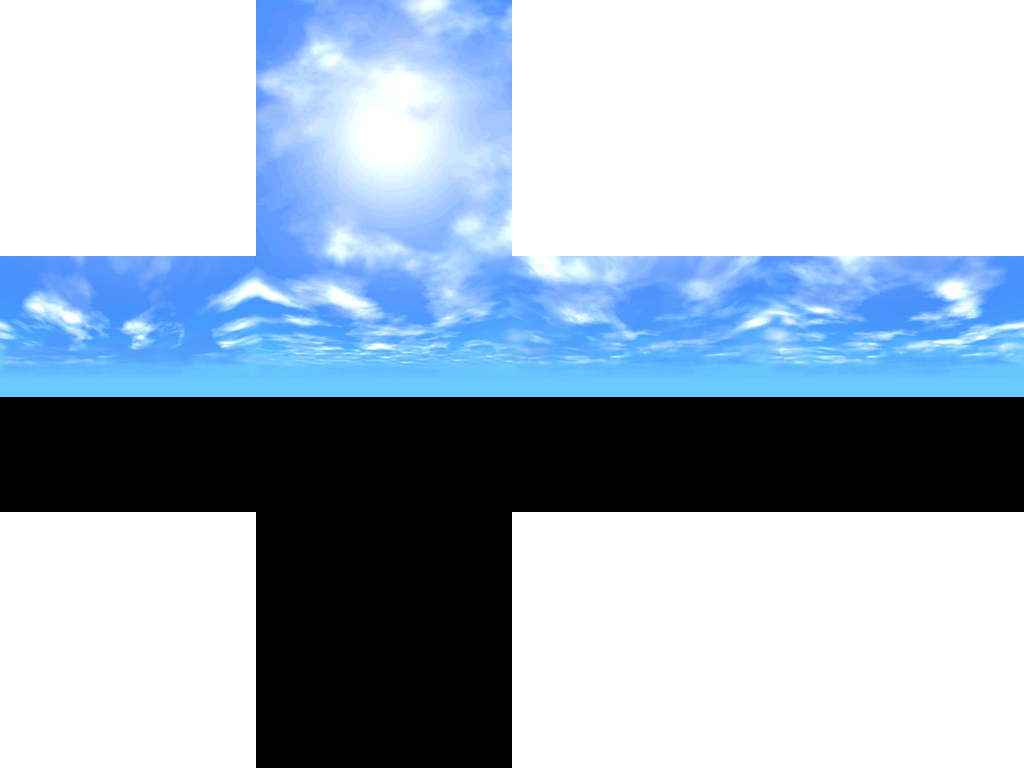
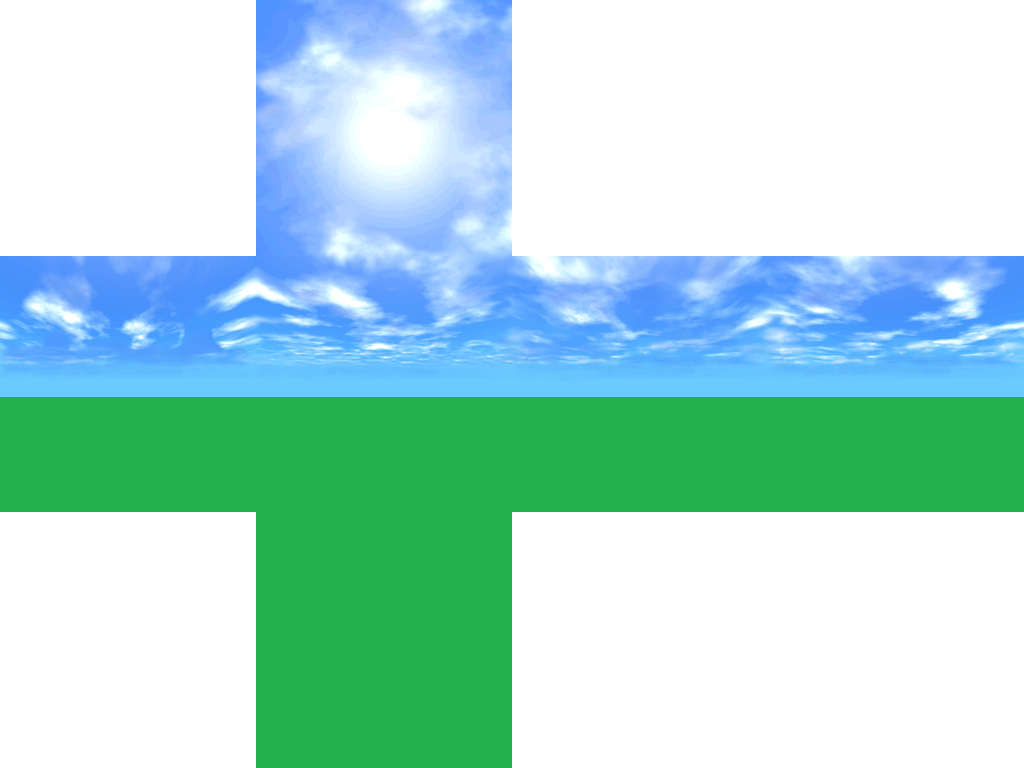
Environment & lighting update

Changed region(s): [[0.0, 0.5, 1.0, 1.0]]

diff --git a/main.cpp b/main.cpp
@@ -4,14 +4,6 @@
 #include <map>
 #include <cstdlib>
 
-#define GLM_FORCE_RADIANS
-#include <glm/glm.hpp>
-#include <glm/gtc/matrix_transform.hpp>
-#include <glm/gtc/constants.hpp>
-#include <glm/gtc/quaternion.hpp>
-#include <GL/glew.h>
-#include <GLFW/glfw3.h>
-
 #include <btBulletDynamicsCommon.h>
 #include "world.h"
 
@@ -25,10 +17,6 @@
 #include "skybox.h"
 #include "wavefront.h"
 
-#define WORLD_ROTATE	(2.f * PI / 180.f)
-
-#define ARRAY_SIZE(a)	(sizeof(a) / sizeof(a[0]))
-
 using namespace std;
 using namespace glm;
 
@@ -36,6 +24,8 @@ GLFWwindow *window;
 
 program_t programs[PROGRAM_COUNT];
 texture_t textures[TEXTURE_COUNT];
+
+environment_t environment;
 
 Camera camera;
 
@@ -232,7 +222,7 @@ static void renderSkybox()
 	uniformMap &uniforms = programs[PROGRAM_SKYBOX].uniforms;
 
 	// Material properties
-	glUniform1f(uniforms[UNIFORM_AMBIENT], 0.7f);
+	glUniform3fv(uniforms[UNIFORM_AMBIENT], 1, (GLfloat *)&environment.ambient);
 
 	// Render skybox
 	matrix.model = translate(mat4(), camera.position());
@@ -258,15 +248,11 @@ static void render()
 	glUseProgram(programs[PROGRAM_WAVEFRONT].id);
 	uniformMap &uniforms = programs[PROGRAM_WAVEFRONT].uniforms;
 
-#if 1
-	vec3 light(0.f, 0.f, 1.f);	// Light direction
+	vec3 light(0.f, 0.f, 1.f);		// Light direction
 	light = vec3(transpose(inverse(matrix.view)) * vec4(light, 0.f));
 	glUniform3fv(uniforms[UNIFORM_LIGHT], 1, (GLfloat *)&light);
-#else
-	vec3 light(0.f, 1.f, 0.f);	// Light directionr
-	light = vec3(transpose(inverse(matrix.view)) * vec4(light, 0.f));
-	glUniform3fv(uniforms[UNIFORM_LIGHT], 1, (GLfloat *)&light);
-#endif
+	vec3 intensity(0.5f, 0.3f, 0.2f);	// Light intensity
+	glUniform3fv(uniforms[UNIFORM_LIGHT_INTENSITY], 1, (GLfloat *)&intensity);
 	vec3 viewer = vec3(transpose(inverse(matrix.view)) * vec4(camera.position(), 0.f));
 	glUniform3fv(uniforms[UNIFORM_VIEWER], 1, (GLfloat *)&viewer);
 
@@ -465,7 +451,7 @@ static void keyCB(GLFWwindow */*window*/, int key, int /*scancode*/, int action,
 	if (action != GLFW_PRESS && action != GLFW_REPEAT)
 		return;
 
-	if (key == GLFW_KEY_D) {
+	if (key == GLFW_KEY_X) {
 		camera.print();
 		return;
 	}
@@ -587,7 +573,7 @@ int main(int /*argc*/, char */*argv*/[])
 		return -1;
 	}
 
-#if 0	
+#if 0	// GLFW supports cube_map, but GLEW does not?
 	clog << (glIsEnabled(GL_TEXTURE_CUBE_MAP_ARB) ? "Yes" : "No") << endl;
 	clog << (GLEW_ARB_texture_cube_map ? "Yes" : "No") << endl;
 	clog << (glfwExtensionSupported("GL_ARB_texture_cube_map") == GL_TRUE ? "Yes" : "No") << endl;
@@ -600,12 +586,7 @@ int main(int /*argc*/, char */*argv*/[])
 		clog << glGetStringi(GL_EXTENSIONS, i) << endl;
 #endif
 
-	if (setupPrograms()) {
-		glfwTerminate();
-		return -1;
-	}
-
-	if (setupTextures()) {
+	if (setupPrograms() || setupTextures()) {
 		glfwTerminate();
 		return -1;
 	}
@@ -651,7 +632,7 @@ int main(int /*argc*/, char */*argv*/[])
 		if (now - past > 3) {
 			float fps = (float)count / (now - past);
 			char buf[32];
-			sprintf(buf, "%g FPS [%s]", fps, status.mode == Status::CameraMode ? "Camera" : "World");
+			sprintf(buf, "%g FPS [%s]", fps, status.mode == Status::CameraMode ? "Camera" : "Tour");
 			glfwSetWindowTitle(window, buf);
 			count = 0;
 			past = now;

diff --git a/global.h b/global.h
@@ -6,6 +6,13 @@
 #include <string>
 
 #include <GL/glew.h>
+#include <GLFW/glfw3.h>
+
+#define GLM_FORCE_RADIANS
+#include <glm/glm.hpp>
+#include <glm/gtc/matrix_transform.hpp>
+#include <glm/gtc/constants.hpp>
+#include <glm/gtc/quaternion.hpp>
 
 #define SHADER_PATH	"./shaders/"
 #define TEXTURE_PATH	"./images/"
@@ -19,13 +26,14 @@
 #else
 #define CAMERA_INIT_POS	glm::vec3(0.f, 1.f, 1.f + 3.f)
 #endif
-#define CAMERA_V0_POS	CAMERA_INIT_POS
-#define CAMERA_V0_ROT	glm::quat()
+#define CAMERA_V0_POS	glm::vec3(-1.78653, 0.990645, 1.56153)
+#define CAMERA_V0_ROT	glm::quat(0.93955, 0.0159436, -0.341968, 0.00709854)
 #define CAMERA_V1_POS	glm::vec3(0, 1.00613, 2.41957)
 #define CAMERA_V1_ROT	glm::quat(0.999848, 0.0174524, 0, 0)
 #define CAMERA_V2_POS	glm::vec3(0, 3.06334, 1.30881)
 #define CAMERA_V2_ROT	glm::quat(0.920509, -0.390733, 0, 0)
 
+#define ARRAY_SIZE(a)	(sizeof(a) / sizeof(a[0]))
 #define PI		(glm::pi<GLfloat>())
 
 // Different programs
@@ -48,6 +56,7 @@ enum {
 #define UNIFORM_SHININESS	"shininess"
 #define UNIFORM_VIEWER		"viewer"
 #define UNIFORM_LIGHT		"light"
+#define UNIFORM_LIGHT_INTENSITY	"lightIntensity"
 #define UNIFORM_COLOUR		"colour"
 #define UNIFORM_TEXTURED	"textured"
 
@@ -78,17 +87,15 @@ struct uniform_t {
 };
 typedef std::unordered_map<std::string, uniform_t> uniformMap;
 
-struct program_t {
+extern struct program_t {
 	uniformMap uniforms;
 	GLuint id;
-};
-extern program_t programs[PROGRAM_COUNT];
+} programs[PROGRAM_COUNT];
 
-struct texture_t {
+extern struct texture_t {
 	GLuint texture;
 	//GLenum type;
 	int x, y, n;
-};
-extern texture_t textures[TEXTURE_COUNT];
+} textures[TEXTURE_COUNT];
 
 #endif // GLOBAL_H

diff --git a/wavefront.cpp b/wavefront.cpp
@@ -2,9 +2,12 @@
 #include <sstream>
 #define TINYOBJLOADER_IMPLEMENTATION
 #include <tiny_obj_loader.h>
-#include "stb_image.h"
+#include <stb_image.h>
+#include "world.h"
 #include "global.h"
 #include "wavefront.h"
+
+#define WAVEFRONT_DEBUG
 
 using namespace std;
 using namespace glm;
@@ -14,30 +17,23 @@ void Wavefront::useMaterial(const int i)
 {
 	if (i == materialID)
 		return;
-
 	uniformMap &uniforms = programs[PROGRAM_WAVEFRONT].uniforms;
 
 	// Material properties
 	const material_t &material = materials.at(i);
-
-	GLfloat ambient[3] = {0.f, 0.f, 0.f};
-	//GLfloat ambient[3] = {0.1f, 0.1f, 0.1f};
-	glUniform3fv(uniforms[UNIFORM_AMBIENT], 1, ambient);
-
+	glUniform3fv(uniforms[UNIFORM_AMBIENT], 1, (GLfloat *)&environment.ambient);
+	//glUniform3fv(uniforms[UNIFORM_AMBIENT], 1, material.ambient);
 	glUniform3fv(uniforms[UNIFORM_DIFFUSE], 1, material.diffuse);
+	glUniform3fv(uniforms[UNIFORM_SPECULAR], 1, material.specular);
+	glUniform1f(uniforms[UNIFORM_SHININESS], material.shininess);
+
 	if (!material.diffuse_texname.empty()) {
-		//GLfloat diffuse[3] = {1.f, 1.f, 1.f};
-		//glUniform3fv(uniforms[UNIFORM_DIFFUSE], 1, diffuse);
 		glBindTexture(GL_TEXTURE_2D, textures[material.diffuse_texname]);
 		glUniform1ui(uniforms[UNIFORM_TEXTURED], 1);
 	} else {
 		glUniform1ui(uniforms[UNIFORM_TEXTURED], 0);
 		//clog << __func__ << ": No texture";
 	}
-
-	//glUniform3fv(uniforms[UNIFORM_AMBIENT], 1, material.ambient);
-	glUniform3fv(uniforms[UNIFORM_SPECULAR], 1, material.specular);
-	glUniform1f(uniforms[UNIFORM_SHININESS], material.shininess);
 }
 
 GLuint Wavefront::loadTexture(const string &filename)

diff --git a/camera.cpp b/camera.cpp
@@ -8,6 +8,7 @@
 #include "camera.h"
 #include "global.h"
 
+#define CAMERA_MOVEMENT	0.2f
 #define CAMERA_ROTATE	(2.f * PI / 180.f)
 #define CAMERA_ELEV	(2.f * PI / 180.f)
 #define CAMERA_ACCEL	0.2f
@@ -50,12 +51,26 @@ void Camera::keyCB(int key)
 		// Decrease the elevation of the camera (optional)
 		elevate(-CAMERA_ELEV);
 		return;
+#if 1
+	case GLFW_KEY_W:
+		pos += forward() * CAMERA_MOVEMENT;
+		return;
+	case GLFW_KEY_S:
+		pos += forward() * -CAMERA_MOVEMENT;
+		return;
+	case GLFW_KEY_D:
+		pos += right() * CAMERA_MOVEMENT;
+		return;
+	case GLFW_KEY_A:
+		pos += right() * -CAMERA_MOVEMENT;
+		return;
+#endif
 	}
 }
 
 void Camera::updateCB(float time)
 {
-	pos += direction() * speed * time;
+	pos += forward() * speed * time;
 }
 
 void Camera::backup()
@@ -101,5 +116,5 @@ void Camera::print()
 
 glm::mat4 Camera::view() const
 {
-	return lookAt(pos, pos + direction(), upward());
+	return lookAt(pos, pos + forward(), upward());
 }

diff --git a/camera.h b/camera.h
@@ -23,8 +23,9 @@ public:
 	void setSpeed(float speed) {this->speed = speed;}
 	glm::vec3 position() const {return pos;}
 	glm::quat rotation() const {return rot;}
-	glm::vec3 direction() const {return rot * glm::vec3(0.f, 0.f, -1.f);}
+	glm::vec3 right() const {return rot * glm::vec3(1.f, 0.f, 0.f);}
 	glm::vec3 upward() const {return rot * glm::vec3(0.f, 1.f, 0.f);}
+	glm::vec3 forward() const {return rot * glm::vec3(0.f, 0.f, -1.f);}
 	glm::mat4 view() const;
 
 	void print();

diff --git a/wavefront.h b/wavefront.h
@@ -6,8 +6,6 @@
 #include "object.h"
 #include "tiny_obj_loader.h"
 
-//#define WAVEFRONT_DEBUG
-
 class Wavefront : public Object
 {
 public:
@@ -24,9 +22,7 @@ private:
 	void useMaterial(const int i);
 	GLuint loadTexture(const std::string &filename);
 	void basename(std::string &path);
-#ifdef WAVEFRONT_DEBUG
 	void debugPrint();
-#endif
 
 	int materialID;
 	std::string texDir;

diff --git a/world.h b/world.h
@@ -1,9 +1,17 @@
 #ifndef WORLD_H
 #define WORLD_H
 
+#include "global.h"
+
 #define GRAVITY		-9.81f
-//#define GRAVITY		0.f
 #define RESTITUTION	1.f
 #define FRICTION	0.1f
+
+#define AMBIENT		0.8f
+
+extern struct environment_t {
+	environment_t() : ambient(AMBIENT, AMBIENT, AMBIENT) {}
+	glm::vec3 ambient;
+} environment;
 
 #endif // WORLD_H
